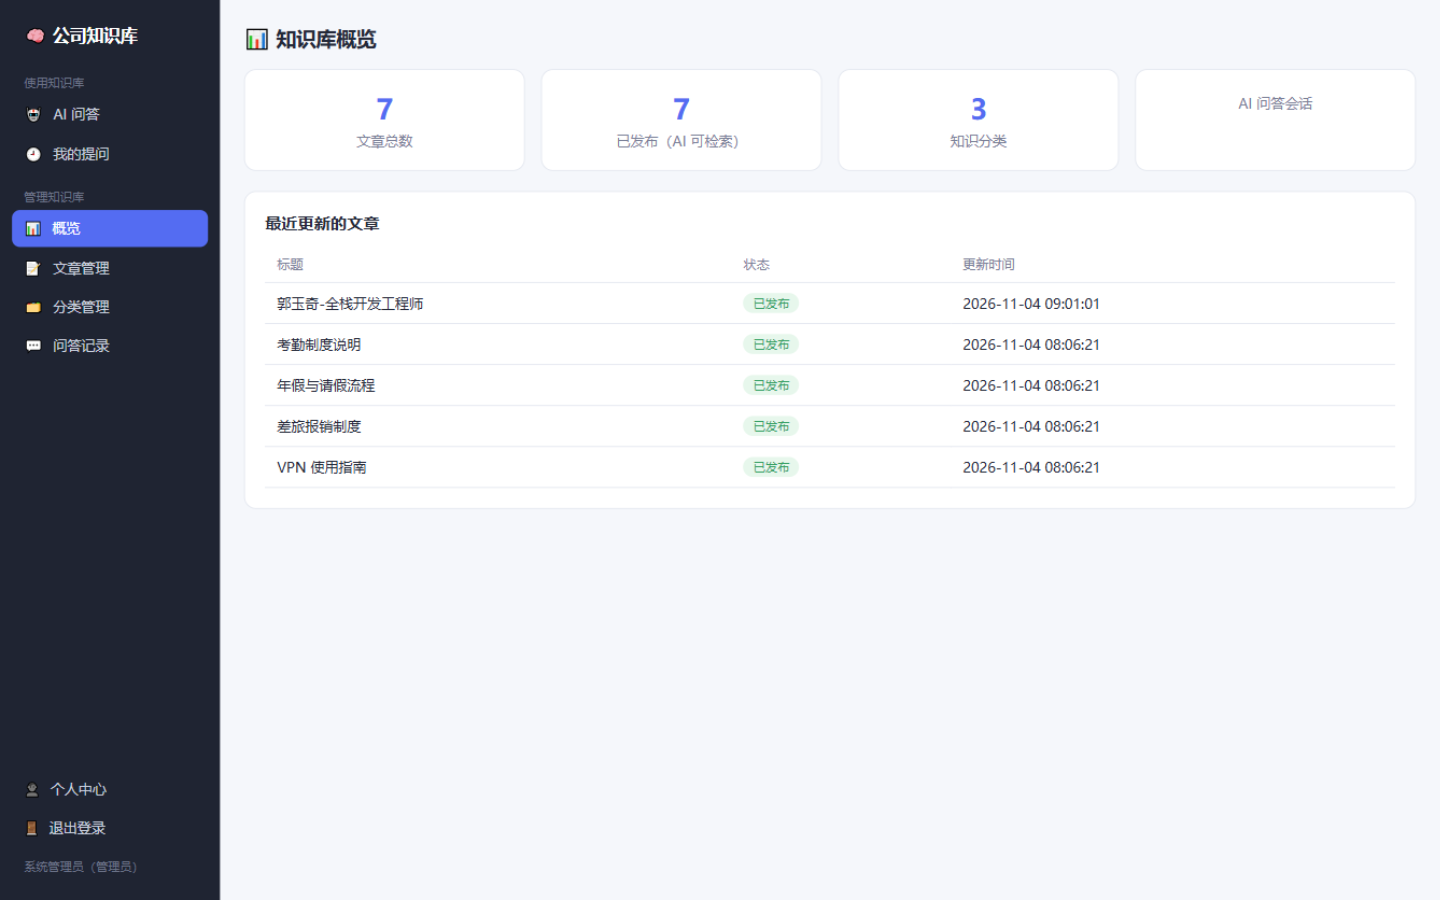
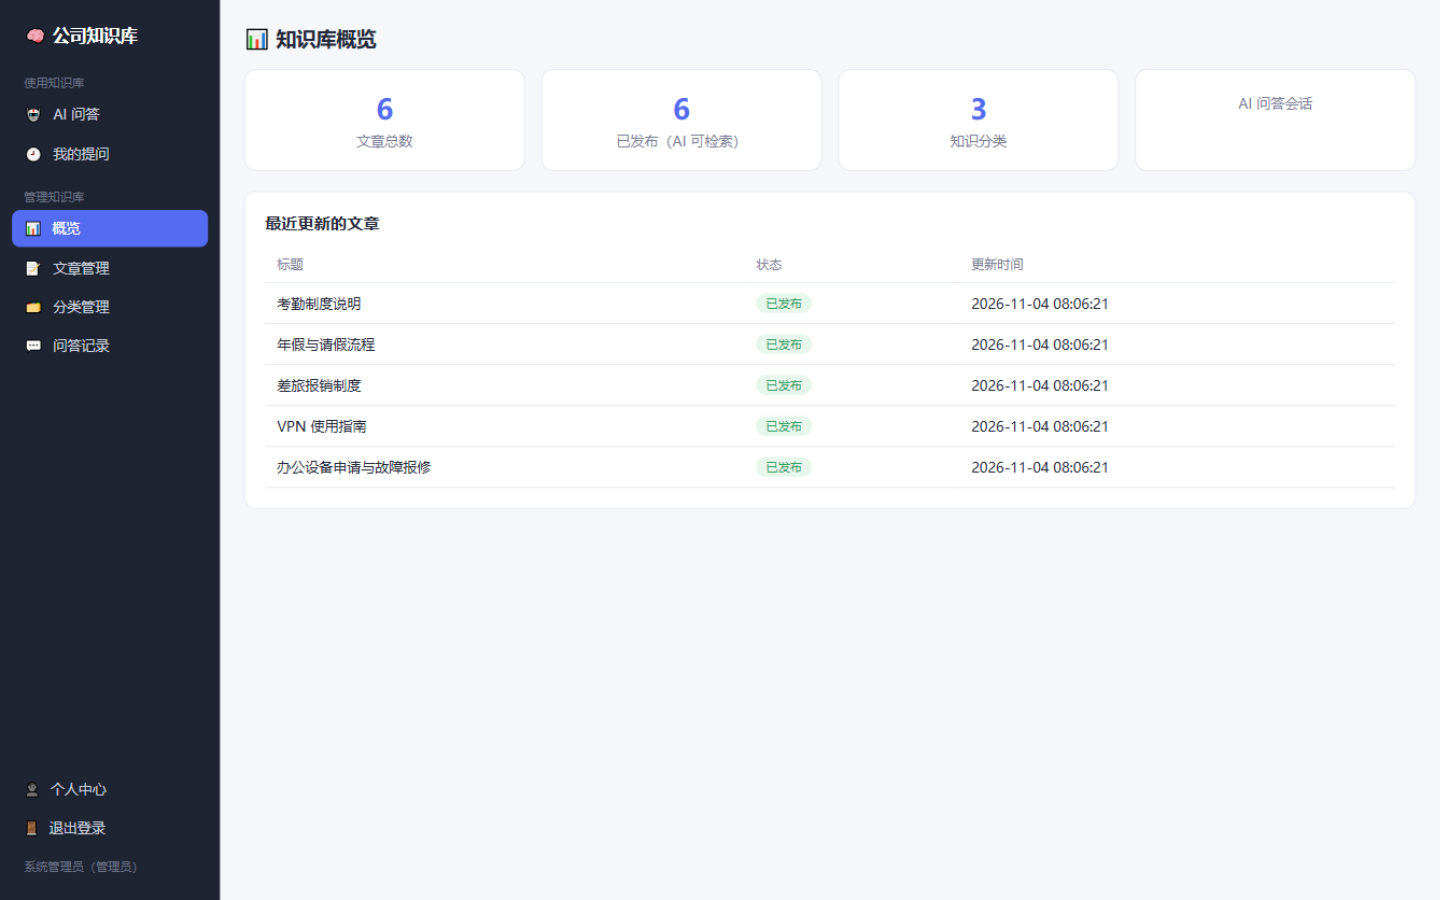
更新 README 截图（引用弹框/耗时/最近会话等新特性）；会话时长持久化；流式渲染 reactive 修复；耗时慢排查

diff --git a/fronted/src/views/user/Chat.vue b/fronted/src/views/user/Chat.vue
@@ -1,5 +1,5 @@
 <script setup>
-import { ref, nextTick, onMounted, computed } from 'vue'
+import { ref, reactive, nextTick, onMounted, computed } from 'vue'
 import { marked } from 'marked'
 import { streamChat, apiFetch } from '../../api/request'
 import { useAuth } from '../../composables/useAuth'
@@ -38,7 +38,8 @@ async function send(text) {
     store.state.sessionId = crypto.randomUUID().replaceAll('-', '')
   }
   const startedAt = Date.now()
-  const assistant = { role: 'assistant', content: '', sources: [], status: '', elapsed: '' }
+  // 必须 reactive：push 后代码里改的是这个引用本身，普通对象的变化不会触发视图更新
+  const assistant = reactive({ role: 'assistant', content: '', sources: [], status: '', elapsed: '' })
   messages.push({ role: 'user', content: q })
   messages.push(assistant)
   scrollBottom()
@@ -54,9 +55,9 @@ async function send(text) {
     },
     onTool: (name) => { assistant.status = `🔍 正在调用工具：${name}…`; scrollBottom() },
     onSources: (items) => { assistant.sources = items },
-    onDone: (sid) => {
+    onDone: (sid, durationMs) => {
       store.state.sessionId = sid
-      assistant.elapsed = `${((Date.now() - startedAt) / 1000).toFixed(1)}s`
+      assistant.elapsed = durationMs ? `${(durationMs / 1000).toFixed(1)}s` : assistant.elapsed
     },
     onError: (msg) => {
       assistant.elapsed = `${((Date.now() - startedAt) / 1000).toFixed(1)}s`
@@ -72,7 +73,10 @@ async function send(text) {
 async function openSession(session) {
   const detail = await apiFetch(`/api/chat/sessions/${session.id}`)
   store.state.sessionId = session.id
-  messages.splice(0, messages.length, ...detail.map((m) => ({ role: m.role, content: m.content, sources: m.sources })))
+  messages.splice(0, messages.length, ...detail.map((m) => ({
+    role: m.role, content: m.content, sources: m.sources,
+    elapsed: m.duration_ms ? `${(m.duration_ms / 1000).toFixed(1)}s` : '',
+  })))
   scrollBottom()
 }
 

diff --git a/fronted/src/api/request.js b/fronted/src/api/request.js
@@ -75,7 +75,7 @@ export async function streamChat({ question, sessionId, onChunk, onTool, onSourc
         if (payload.type === 'chunk') onChunk?.(payload.content)
         else if (payload.type === 'tool') onTool?.(payload.name)
         else if (payload.type === 'sources') onSources?.(payload.items || [])
-        else if (payload.type === 'done') onDone?.(payload.session_id)
+        else if (payload.type === 'done') onDone?.(payload.session_id, payload.duration_ms)
         else if (payload.type === 'error') onError?.(payload.message)
       }
     }

diff --git a/fronted/src/composables/useChat.js b/fronted/src/composables/useChat.js
@@ -31,7 +31,12 @@ async function loadSessionById(id) {
   state.sessionId = id
   // 原地填充：聊天页持有的是该数组的引用，整体赋值会导致界面不更新
   state.messages.splice(0, state.messages.length,
-    ...detail.map((m) => ({ role: m.role, content: m.content, sources: m.sources })))
+    ...detail.map((m) => ({
+      role: m.role,
+      content: m.content,
+      sources: m.sources,
+      elapsed: m.duration_ms ? `${(m.duration_ms / 1000).toFixed(1)}s` : '',
+    })))
 }
 
 export function useChatStore() {

diff --git a/backend/app/routers/chat.py b/backend/app/routers/chat.py
@@ -1,6 +1,7 @@
 import json
 import logging
 import re
+import time
 import uuid
 
 from fastapi import APIRouter, Depends, HTTPException
@@ -28,12 +29,14 @@ class ChatRequest(BaseModel):
     session_id: str = ""
 
 
-def _save_message(db: Session, session_id: str, role: str, content: str, sources: list | None = None):
+def _save_message(db: Session, session_id: str, role: str, content: str,
+                  sources: list | None = None, duration_ms: int | None = None):
     message = ChatMessage(
         session_id=session_id,
         role=role,
         content=content,
         sources=json.dumps(sources, ensure_ascii=False) if sources else None,
+        duration_ms=duration_ms,
     )
     db.add(message)
     db.commit()
@@ -51,6 +54,7 @@ def ask(payload: ChatRequest, current_user: User = Depends(get_current_user)):
         raise HTTPException(status_code=400, detail="问题不能为空")
 
     session_id = payload.session_id or uuid.uuid4().hex
+    started_at = time.time()
     db = SessionLocal()
     try:
         session = db.query(ChatSession).filter(ChatSession.id == session_id).first()
@@ -140,12 +144,13 @@ def ask(payload: ChatRequest, current_user: User = Depends(get_current_user)):
             total = len(sources)
             cited = {int(m) for m in re.findall(r"\[(\d{1,2})\]", answer) if int(m) <= total}
             used_sources = [s for i, s in enumerate(sources, 1) if i in cited]
+            duration_ms = int((time.time() - started_at) * 1000)
             yield f"data: {json.dumps({'type': 'sources', 'items': used_sources}, ensure_ascii=False)}\n\n"
-            yield f"data: {json.dumps({'type': 'done', 'session_id': session_id})}\n\n"
+            yield f"data: {json.dumps({'type': 'done', 'session_id': session_id, 'duration_ms': duration_ms})}\n\n"
 
             db = SessionLocal()
             try:
-                _save_message(db, session_id, "assistant", answer, used_sources)
+                _save_message(db, session_id, "assistant", answer, used_sources, duration_ms)
             finally:
                 db.close()
         except Exception as e:
@@ -183,6 +188,7 @@ def session_messages(session_id: str, current_user: User = Depends(get_current_u
         "role": m.role,
         "content": m.content,
         "sources": m.sources_list,
+        "duration_ms": m.duration_ms,
         "created_at": m.created_at.isoformat() if m.created_at else None,
     } for m in session.messages])
 

diff --git a/backend/app/main.py b/backend/app/main.py
@@ -4,6 +4,7 @@ from contextlib import asynccontextmanager
 from fastapi import FastAPI, Request, HTTPException
 from fastapi.middleware.cors import CORSMiddleware
 from fastapi.responses import JSONResponse
+from sqlalchemy import inspect, text
 from sqlalchemy.exc import IntegrityError
 
 from app.config import settings
@@ -16,9 +17,20 @@ from app.seed import init_seed_data
 logger = logging.getLogger("app")
 
 
+def _ensure_schema_columns() -> None:
+    """对已存在的表幂等补齐新增列（无 alembic 的轻量自迁移）。"""
+    insp = inspect(engine)
+    if insp.has_table("chat_messages"):
+        existing = {c["name"] for c in insp.get_columns("chat_messages")}
+        if "duration_ms" not in existing:
+            with engine.begin() as conn:
+                conn.execute(text("ALTER TABLE chat_messages ADD COLUMN duration_ms INTEGER"))
+
+
 @asynccontextmanager
 async def lifespan(app: FastAPI):
     Base.metadata.create_all(bind=engine)
+    _ensure_schema_columns()
     db = SessionLocal()
     try:
         for username, email, password, role, name in [

diff --git a/backend/app/models/chat.py b/backend/app/models/chat.py
@@ -27,6 +27,8 @@ class ChatMessage(Base):
     content = Column(Text, nullable=False)
     # 引用来源：JSON 数组 [{article_id, title, snippet}]
     sources = Column(Text, nullable=True)
+    # 回答耗时（毫秒），仅 assistant 消息有
+    duration_ms = Column(Integer, nullable=True)
     created_at = Column(DateTime, default=datetime.utcnow, nullable=False)
 
     session = relationship("ChatSession", back_populates="messages")

diff --git a/README.md b/README.md
@@ -8,13 +8,13 @@
 
 ## 界面预览
 
-| AI 知识问答（带引用溯源） | 文章管理（分类/状态/导入） |
+| AI 知识问答（带引用溯源） | 点击引用弹出原文 |
 |---|---|
-| ![AI 知识问答](docs/images/02-chat-qa.png) | ![文章管理](docs/images/04-admin-articles.png) |
+| ![AI 知识问答](docs/images/02-chat-qa.png) | ![引用弹框](docs/images/05-citation-modal.png) |
 
-| 管理端概览 | 登录 |
+| 管理端概览 | 文章管理 |
 |---|---|
-| ![管理端概览](docs/images/03-admin-dashboard.png) | ![登录](docs/images/01-login.png) |
+| ![管理端概览](docs/images/03-admin-dashboard.png) | ![文章管理](docs/images/04-admin-articles.png) |
 
 ## 核心能力
 
